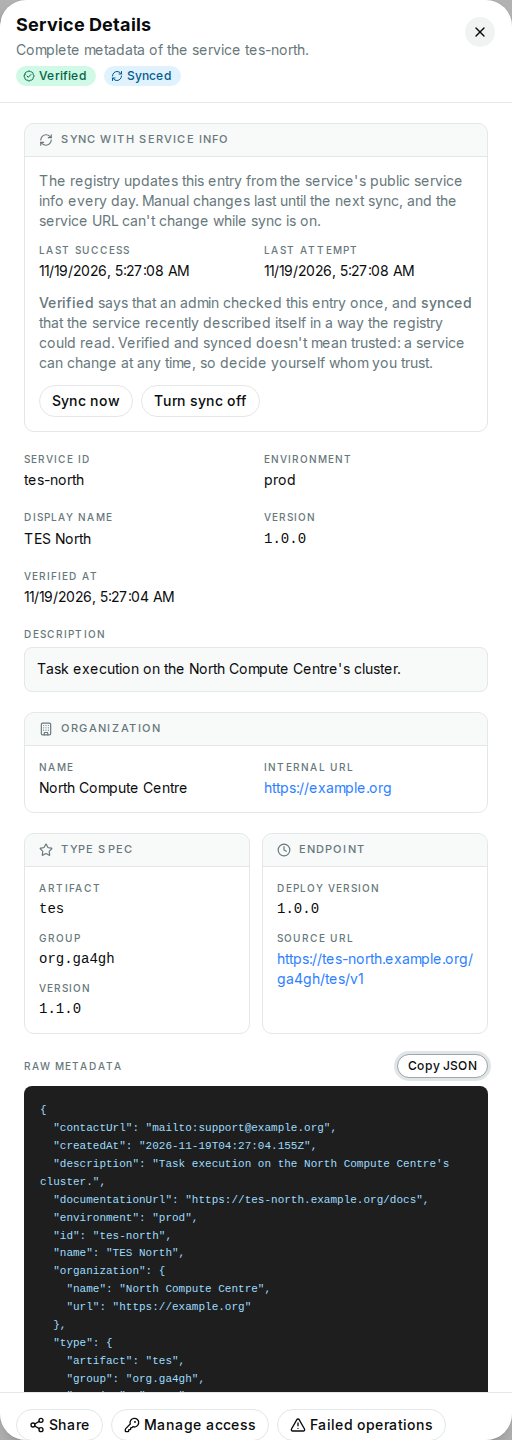
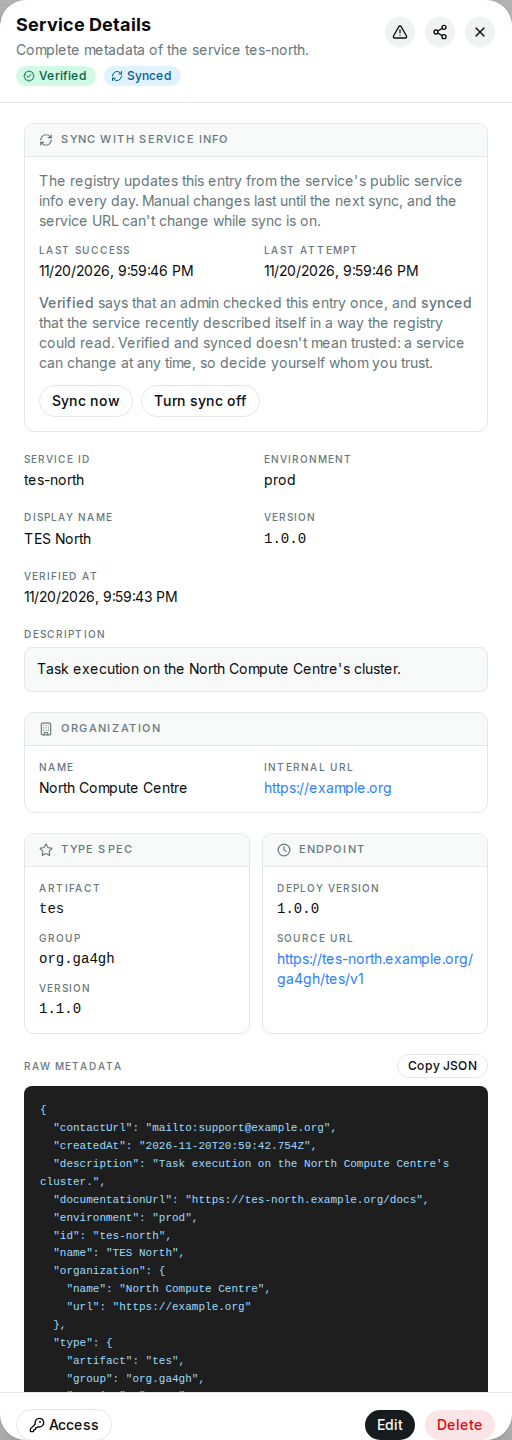
docs: describe the buttons next to the close button
The user guide describes Share link and Failed operations at the top of
the service details and Access in the row below, and the screenshots
of the details show them (taken with scripts/docs-screenshots.mjs).

diff --git a/docs/user-guide/browsing.md b/docs/user-guide/browsing.md
@@ -46,13 +46,23 @@ the details, also on a phone.
 
 ![Details of a service](../images/service-details.png){ width="512" }
 
-The buttons below the details depend on your rights (see [Access and
-permissions](access.md)). They come in two groups, which share a row
-where they fit, and otherwise each take a row of their own:
+At the top, next to the **X** that closes the details, are the buttons
+that leave the service as it is (point at one, or move to it with the Tab
+key, to see its name):
 
-- On the left, **Share** copies a link to the service's own page, e.g. to
-  send it to others; if the browser can't copy it, the link is shown below
-  the buttons. **Manage access** is there for owners and admins.
+- **Share link** (the share icon, for everyone) copies a link to the
+  service's own page, e.g. to send it to others; if the browser can't copy
+  it, the link is shown below the title, to copy it from there.
+- **Failed operations** (the triangle, for those with a role on the
+  service and admins in admin mode) opens the [failed
+  operations](failed-operations.md) of the service.
+
+The buttons below the details change the service, and depend on your
+rights (see [Access and permissions](access.md)). They fit in one row,
+also on a phone:
+
+- On the left, **Access** (the key; **Manage access** in its tooltip, and
+  only the key on phones) for owners and admins.
 - On the right, the actions on the service itself: **Approve** (see
   [Pending entries](pending.md)) and **Verify** (see
   [Verifications](verifications.md)) for admins in admin mode, **Edit** for

diff --git a/docs/user-guide/access.md b/docs/user-guide/access.md
@@ -31,9 +31,9 @@ it. This needs cloud-registry 1.0.0rc2 or later (see
 [Compatibility](../operator-guide/index.md#compatibility)); 0.6.0 and 1.0.0rc1
 give roles to the wrong user:
 
-1. Open the service and select **Manage access**. The dialog has two tabs:
-   **Current Access**, described here, and **Invitations** (see [Inviting
-   by link](#inviting-by-link)).
+1. Open the service and select **Access** (the key, **Manage access** in
+   its tooltip). The dialog has two tabs: **Current Access**, described
+   here, and **Invitations** (see [Inviting by link](#inviting-by-link)).
 2. The list shows the users and groups with a role, also those who joined
    through an invitation: users by name and user ID once they have used the
    registry (before, by user ID only), groups by their name in the login
@@ -80,7 +80,7 @@ Notes:
 Instead of asking for a user ID, owners of a service, and admins, can
 invite a colleague with a link:
 
-1. Open the service, select **Manage access**, and open the **Invitations**
+1. Open the service, select **Access** (the key), and open the **Invitations**
    tab, which shows the number of open invitations.
 2. Choose the role the invitation is for, enter a label that says who it is
    for, e.g. `Bob (variant calling team)`, and select **Create link**. The

diff --git a/docs/user-guide/failed-operations.md b/docs/user-guide/failed-operations.md
@@ -58,8 +58,8 @@ the registry itself aren't listed.
 ## Filters
 
 Filter by operation, by reason and by service ID (type it, then **Apply**). **Failed
-operations** in the details of a service you have a role on opens the list for that
-service. The filters are part of the page's address, so you can bookmark or share a
+operations** (the triangle at the top) in the details of a service you have a role on
+opens the list for that service. The filters are part of the page's address, so you can bookmark or share a
 filtered list; others see only what they may see. **Clear filters** shows all again.
 
 Registries without this list (up to cloud-registry 1.0.0rc2) say so on the page; so do
